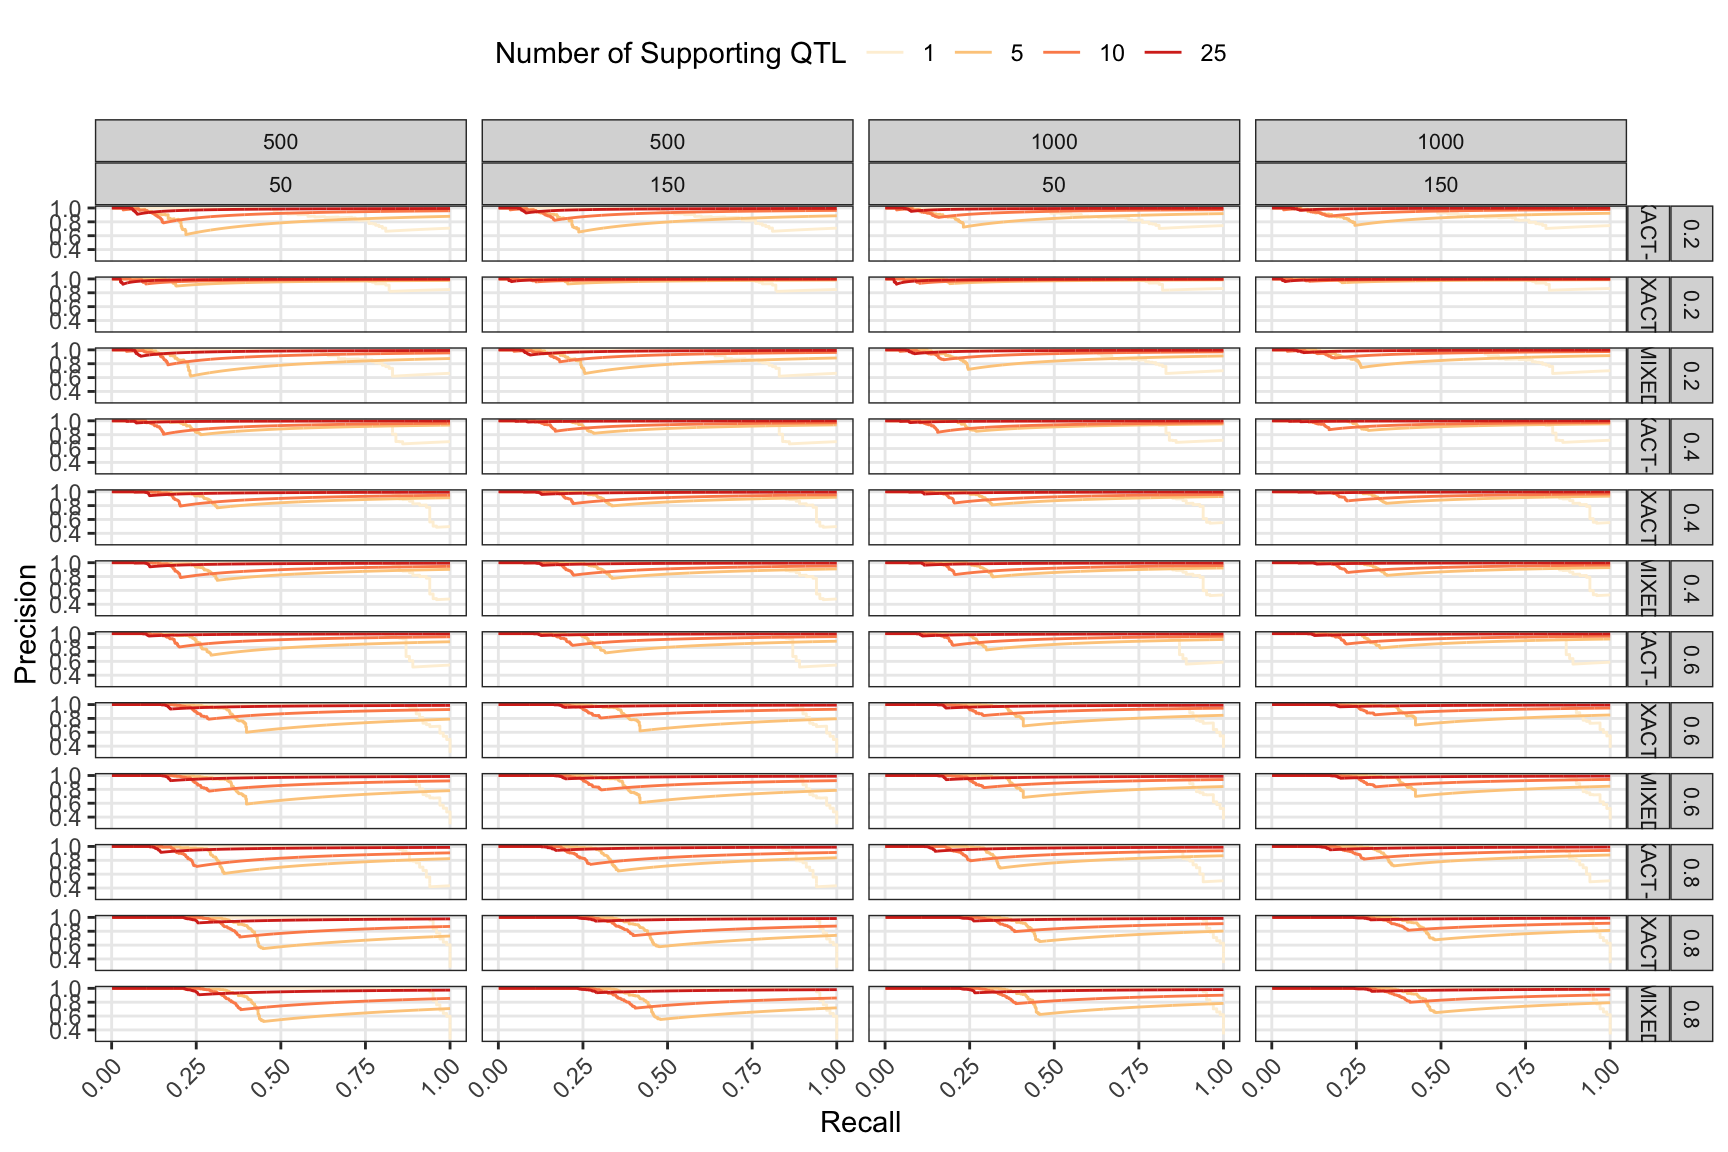
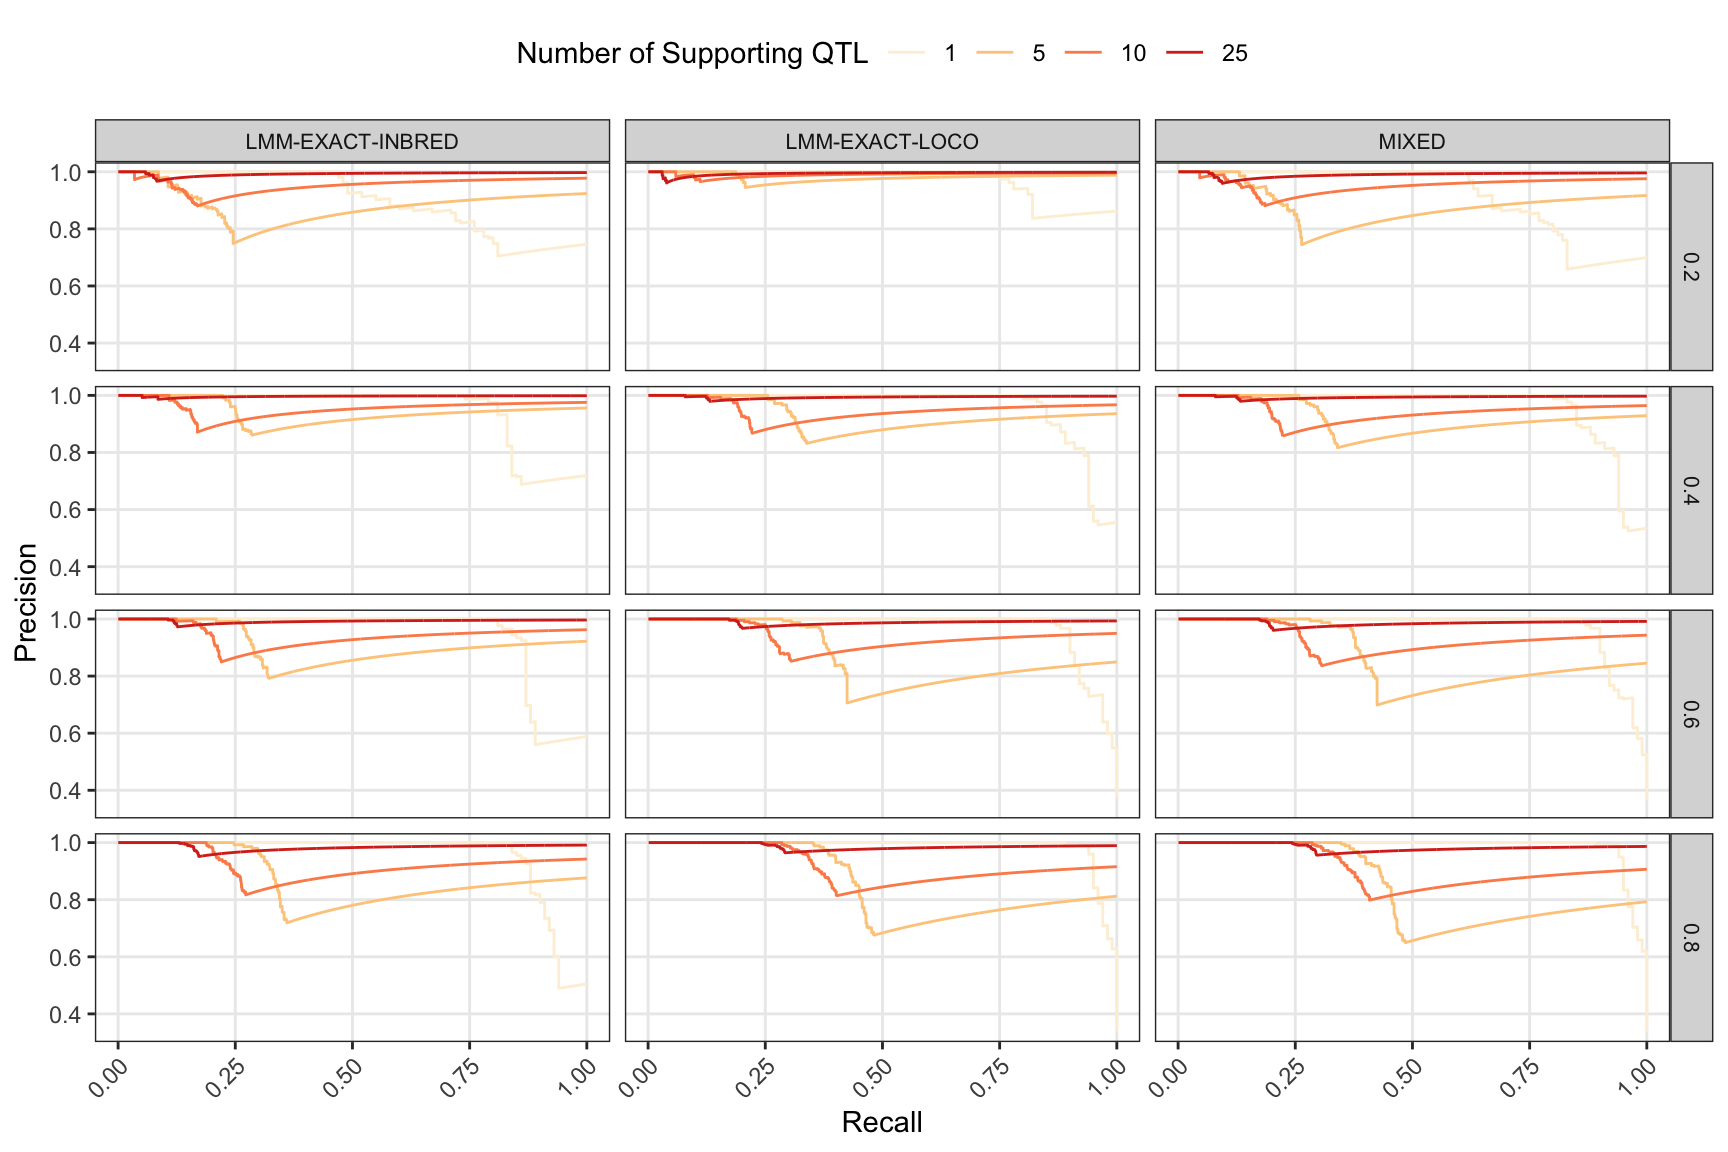
Build site.

diff --git a/docs/architecture.html b/docs/architecture.html
@@ -459,16 +459,16 @@ relative
 <div class="panel panel-default">
 <div class="panel-heading">
 <p class="panel-title">
-<a data-toggle="collapse" data-parent="#workflowr-checks" href="#strongRepositoryversionstrongahrefhttpsgithubcomsamwidmayerNemaScanPerformancetree8a6a1eb1f341774473a1dee4217c29dbb04967e7targetblank8a6a1eba"> <span class="glyphicon glyphicon-ok text-success" aria-hidden="true"></span> <strong>Repository version:</strong> <a href="https://github.com/sam-widmayer/NemaScan_Performance/tree/8a6a1eb1f341774473a1dee4217c29dbb04967e7" target="_blank">8a6a1eb</a> </a>
+<a data-toggle="collapse" data-parent="#workflowr-checks" href="#strongRepositoryversionstrongahrefhttpsgithubcomsamwidmayerNemaScanPerformancetreeed561fc1f5d15e6439afd08e3e2a35a1df1907c2targetblanked561fca"> <span class="glyphicon glyphicon-ok text-success" aria-hidden="true"></span> <strong>Repository version:</strong> <a href="https://github.com/sam-widmayer/NemaScan_Performance/tree/ed561fc1f5d15e6439afd08e3e2a35a1df1907c2" target="_blank">ed561fc</a> </a>
 </p>
 </div>
[2 lines of base64/hex data omitted]
 <div class="panel-body">
 <p>
 Great! You are using Git for version control. Tracking code development and connecting the code version to the results is critical for reproducibility.
 </p>
 <p>
-The results in this page were generated with repository version <a href="https://github.com/sam-widmayer/NemaScan_Performance/tree/8a6a1eb1f341774473a1dee4217c29dbb04967e7" target="_blank">8a6a1eb</a>. See the <em>Past versions</em> tab to see a history of the changes made to the R Markdown and HTML files.
+The results in this page were generated with repository version <a href="https://github.com/sam-widmayer/NemaScan_Performance/tree/ed561fc1f5d15e6439afd08e3e2a35a1df1907c2" target="_blank">ed561fc</a>. See the <em>Past versions</em> tab to see a history of the changes made to the R Markdown and HTML files.
 </p>
 <p>
 Note that you need to be careful to ensure that all relevant files for the analysis have been committed to Git prior to generating the results (you can use <code>wflow_publish</code> or <code>wflow_git_commit</code>). workflowr only checks the R Markdown file, but you know if there are other scripts or data files that it depends on. Below is the status of the Git repository when the results were generated:
@@ -582,6 +582,57 @@ Message
 </tr>
 </thead>
 <tbody>
+<tr>
+<td>
+Rmd
+</td>
+<td>
+<a href="https://github.com/sam-widmayer/NemaScan_Performance/blob/ed561fc1f5d15e6439afd08e3e2a35a1df1907c2/analysis/architecture.Rmd" target="_blank">ed561fc</a>
+</td>
+<td>
+Sam
+</td>
+<td>
+2020-12-26
+</td>
+<td>
+adjust pr curve for main result
+</td>
+</tr>
+<tr>
+<td>
+Rmd
+</td>
+<td>
+<a href="https://github.com/sam-widmayer/NemaScan_Performance/blob/a0cbc46ebdc3711526fe36076abf87b1152f11cc/analysis/architecture.Rmd" target="_blank">a0cbc46</a>
+</td>
+<td>
+Sam
+</td>
+<td>
+2020-12-26
+</td>
+<td>
+adjust pr curve for main result
+</td>
+</tr>
+<tr>
+<td>
+html
+</td>
+<td>
+<a href="https://rawcdn.githack.com/sam-widmayer/NemaScan_Performance/03660cc13e021b39173f15faf11594a8d9bcdcd3/docs/architecture.html" target="_blank">03660cc</a>
+</td>
+<td>
+Sam
+</td>
+<td>
+2020-12-26
+</td>
+<td>
+Build site.
+</td>
+</tr>
 <tr>
 <td>
 Rmd
@@ -899,6 +950,17 @@ Date
 <tbody>
 <tr>
 <td>
+<a href="https://github.com/sam-widmayer/NemaScan_Performance/blob/03660cc13e021b39173f15faf11594a8d9bcdcd3/docs/figure/architecture.Rmd/simulated QTL locations-1.png" target="_blank">03660cc</a>
+</td>
+<td>
+Sam
+</td>
+<td>
+2020-12-26
+</td>
+</tr>
+<tr>
+<td>
 <a href="https://github.com/sam-widmayer/NemaScan_Performance/blob/c69064b8e481f2c1e9ed48f16e0ffca40e1ffeab/docs/figure/architecture.Rmd/simulated QTL locations-1.png" target="_blank">c69064b</a>
 </td>
 <td>
@@ -946,6 +1008,17 @@ Date
 </tr>
 </thead>
 <tbody>
+<tr>
+<td>
+<a href="https://github.com/sam-widmayer/NemaScan_Performance/blob/03660cc13e021b39173f15faf11594a8d9bcdcd3/docs/figure/architecture.Rmd/simulated QTL locations-2.png" target="_blank">03660cc</a>
+</td>
+<td>
+Sam
+</td>
+<td>
+2020-12-26
+</td>
+</tr>
 <tr>
 <td>
 <a href="https://github.com/sam-widmayer/NemaScan_Performance/blob/c69064b8e481f2c1e9ed48f16e0ffca40e1ffeab/docs/figure/architecture.Rmd/simulated QTL locations-2.png" target="_blank">c69064b</a>
@@ -997,6 +1070,17 @@ Date
 <tbody>
 <tr>
 <td>
+<a href="https://github.com/sam-widmayer/NemaScan_Performance/blob/03660cc13e021b39173f15faf11594a8d9bcdcd3/docs/figure/architecture.Rmd/simulated QTL locations-3.png" target="_blank">03660cc</a>
+</td>
+<td>
+Sam
+</td>
+<td>
+2020-12-26
+</td>
+</tr>
+<tr>
+<td>
 <a href="https://github.com/sam-widmayer/NemaScan_Performance/blob/c69064b8e481f2c1e9ed48f16e0ffca40e1ffeab/docs/figure/architecture.Rmd/simulated QTL locations-3.png" target="_blank">c69064b</a>
 </td>
 <td>
@@ -1046,6 +1130,17 @@ Date
 <tbody>
 <tr>
 <td>
+<a href="https://github.com/sam-widmayer/NemaScan_Performance/blob/03660cc13e021b39173f15faf11594a8d9bcdcd3/docs/figure/architecture.Rmd/PR curve-1.png" target="_blank">03660cc</a>
+</td>
+<td>
+Sam
+</td>
+<td>
+2020-12-26
+</td>
+</tr>
+<tr>
+<td>
 <a href="https://github.com/sam-widmayer/NemaScan_Performance/blob/c69064b8e481f2c1e9ed48f16e0ffca40e1ffeab/docs/figure/architecture.Rmd/PR curve-1.png" target="_blank">c69064b</a>
 </td>
 <td>
@@ -1084,81 +1179,7 @@ Sam
 <pre><code>Joining, by = c(&quot;h2&quot;, &quot;algorithm&quot;, &quot;nQTL&quot;, &quot;group.size&quot;, &quot;CI&quot;, &quot;.metric&quot;, &quot;.estimator&quot;, &quot;.estimate&quot;)
 Joining, by = c(&quot;h2&quot;, &quot;algorithm&quot;, &quot;nQTL&quot;, &quot;group.size&quot;, &quot;CI&quot;, &quot;.metric&quot;, &quot;.estimator&quot;, &quot;.estimate&quot;)</code></pre>
 <pre><code>Joining, by = c(&quot;h2&quot;, &quot;algorithm&quot;, &quot;nQTL&quot;, &quot;group.size&quot;, &quot;CI&quot;)</code></pre>
-<pre class="r"><code>## PLOTS
-power.plot &lt;- summarized %&gt;%
-  dplyr::filter(algorithm == &quot;MIXED&quot;) %&gt;%
-  ggplot(., mapping = aes(x = nQTL, y = Power, colour = h2, 
-                          group = interaction(h2,algorithm,group.size,CI))) +
-  theme_bw() +
-  geom_point() +
-  # geom_line(aes(linetype = algorithm)) +
-  geom_line() +
-  scale_colour_manual(values = h2.pal, name = expression(italic(h^2))) +
-  scale_alpha_manual(values = c(1,0.5,0.5), name = &quot;Evaluation Method&quot;) +
-  facet_grid(group.size ~ CI) + 
-  ylim(c(0,1)) + 
-  theme(strip.text = element_text(size = 8),
-        legend.position = &quot;top&quot;,
-        panel.grid.minor = element_blank()) +
-  labs(x = &quot;Number of Supporting QTL&quot;)
-
-precision.plot &lt;- summarized %&gt;%
-  ggplot(., mapping = aes(x = nQTL, y = Precision, colour = h2, group = interaction(h2,algorithm))) +
-  theme_bw() +
-  geom_point() +
-  geom_line(aes(linetype = algorithm)) +
-  scale_colour_manual(values = h2.pal, name = expression(italic(h^2))) +
-  scale_alpha_manual(values = c(1,0.5,0.5), name = &quot;Evaluation Method&quot;) +
-  scale_linetype_manual(values = c(3,2,1), name = &quot;Evaluation Method&quot;) +
-  ylim(c(0,1)) + 
-  theme(strip.text = element_text(size = 8),
-        legend.position = &quot;top&quot;,
-        panel.grid.minor = element_blank()) +
-  labs(x = &quot;Number of Supporting QTL&quot;)
-
-summarized %&gt;%
-  ggplot(., mapping = aes(x = nQTL, y = `Precision-Recall_AUC`, colour = h2, group = interaction(h2,algorithm))) +
-  theme_bw() +
-  geom_point() +
-  geom_line(aes(linetype = algorithm, alpha = algorithm)) +
-  scale_colour_manual(values = h2.pal, name = expression(italic(h^2))) +
-  scale_alpha_manual(values = c(1,0.5,0.5), name = &quot;Evaluation Method&quot;) +
-  scale_linetype_manual(values = c(1,3,3), name = &quot;Evaluation Method&quot;) +
-    ylim(c(0,1)) + 
-  theme(strip.text = element_text(size = 8),
-        legend.position = &quot;top&quot;,
-        panel.grid.minor = element_blank()) +
-  labs(x = &quot;Number of Supporting QTL&quot;)</code></pre>
-<p><img src="figure/architecture.Rmd/plots-1.png" width="672" style="display: block; margin: auto;" /></p>
-<pre class="r"><code>FDR.plot &lt;- summarized %&gt;%
-  dplyr::filter(algorithm == &quot;MIXED&quot;) %&gt;%
-  ggplot(., mapping = aes(x = nQTL, y = FDR, colour = h2, group = interaction(h2,algorithm,group.size,CI))) +
-  theme_bw() +
-  geom_point() +
-  # geom_line(aes(linetype = algorithm)) +
-  geom_line() +
-  scale_colour_manual(values = h2.pal, name = expression(italic(h^2))) +
-  scale_alpha_manual(values = c(1,0.5,0.5), name = &quot;Evaluation Method&quot;) +
-  # scale_linetype_manual(values = c(3,2,1), name = &quot;Evaluation Method&quot;) +
-  facet_grid(group.size ~ CI) + 
-  ylim(c(0,1)) + 
-  theme(strip.text = element_text(size = 8),
-        legend.position = &quot;right&quot;,
-        panel.grid.minor = element_blank()) +
-  labs(x = &quot;Number of Supporting QTL&quot;)
-
-plots &lt;- cowplot::plot_grid(power.plot+ theme(legend.position = &quot;none&quot;),
-                            FDR.plot+ theme(legend.position = &quot;none&quot;),
-                            nrow = 1,
-                            labels = &quot;AUTO&quot;, align = &quot;hv&quot;, axis = &quot;b&quot;)
-# nQTL.legend &lt;- cowplot::get_legend(QTL_per_peak_plot)
-h2.legend &lt;- cowplot::get_legend(power.plot)
-legends &lt;- cowplot::plot_grid(h2.legend, ncol = 1)
-prelim.fig.2 &lt;- cowplot::plot_grid(plots, 
-                                   legends, 
-                                   ncol = 1, 
-                                   rel_heights = c(6,1))
-ggsave(plot = prelim.fig.2, filename = &quot;output/prelim.fig.2.png&quot;, height = 4, width = 10)</code></pre>
+<p><img src="figure/architecture.Rmd/unnamed-chunk-2-1.png" width="672" style="display: block; margin: auto;" /><img src="figure/architecture.Rmd/unnamed-chunk-2-2.png" width="672" style="display: block; margin: auto;" /></p>
 </div>
 <div id="tables" class="section level2">
 <h2>TABLES</h2>
